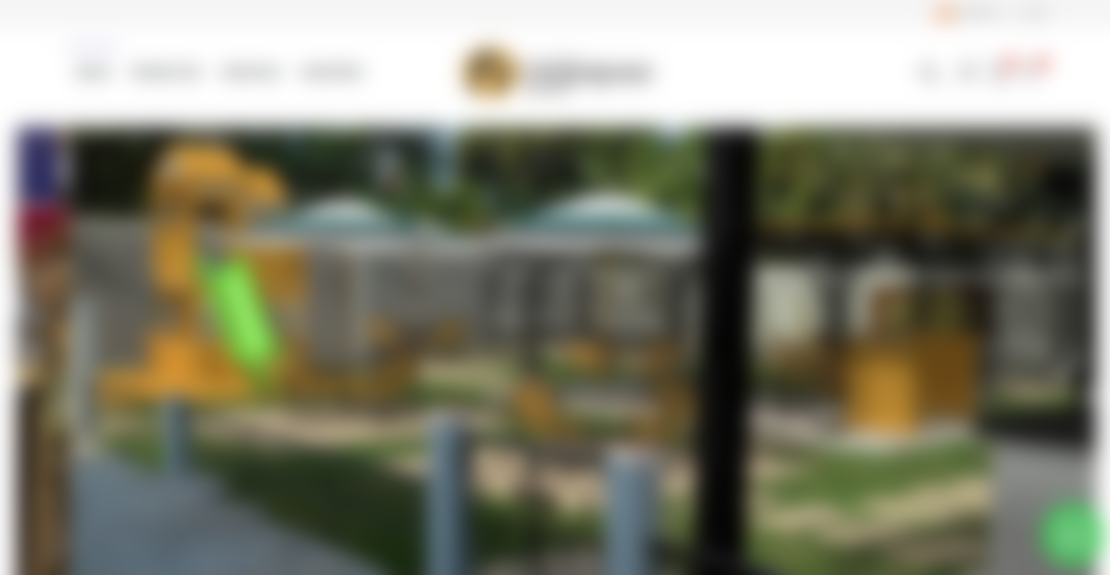
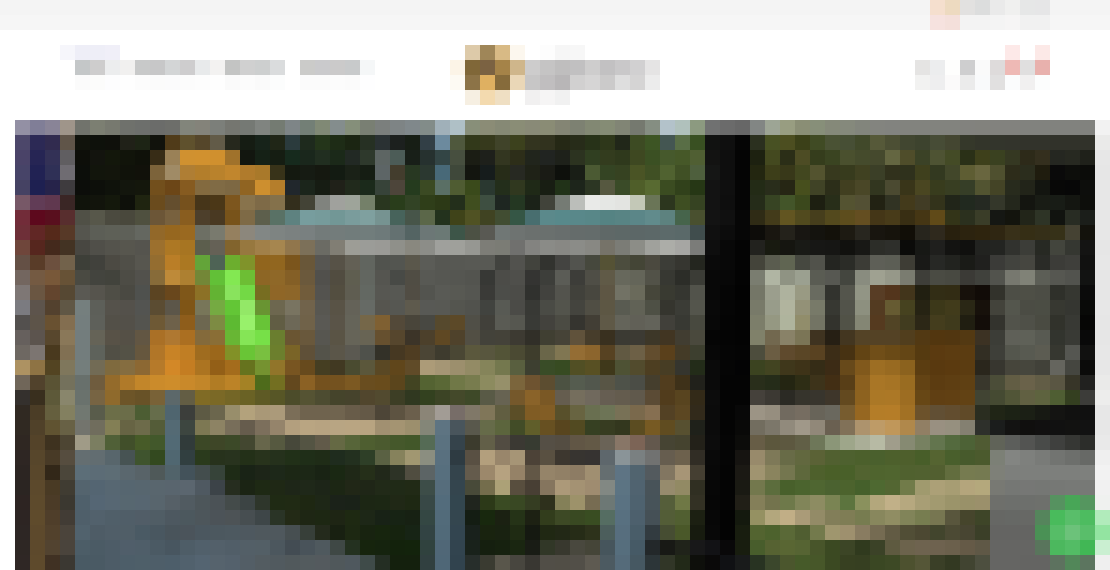
animando carga de imagenes

diff --git a/src/globals/components/LazyImg.vue b/src/globals/components/LazyImg.vue
@@ -34,4 +34,20 @@ onMountedHook()
 </template>
 
 <style scoped>
+@keyframes activate-blur{
+  0% {filter: blur(0px);}
+  100% {filter: blur(4px);}
+}
+@keyframes desactivate-blur{
+  0% {filter: blur(4px);}
+  100% {filter: blur(0px);}
+}
+
+.lazyLoad:not([data-loaded="true"]){
+  filter: blur(4px);
+}
+.lazyLoad[data-loaded="true"]{
+  display: inline;
+  animation: desactivate-blur 1.5s;
+}
 </style>
